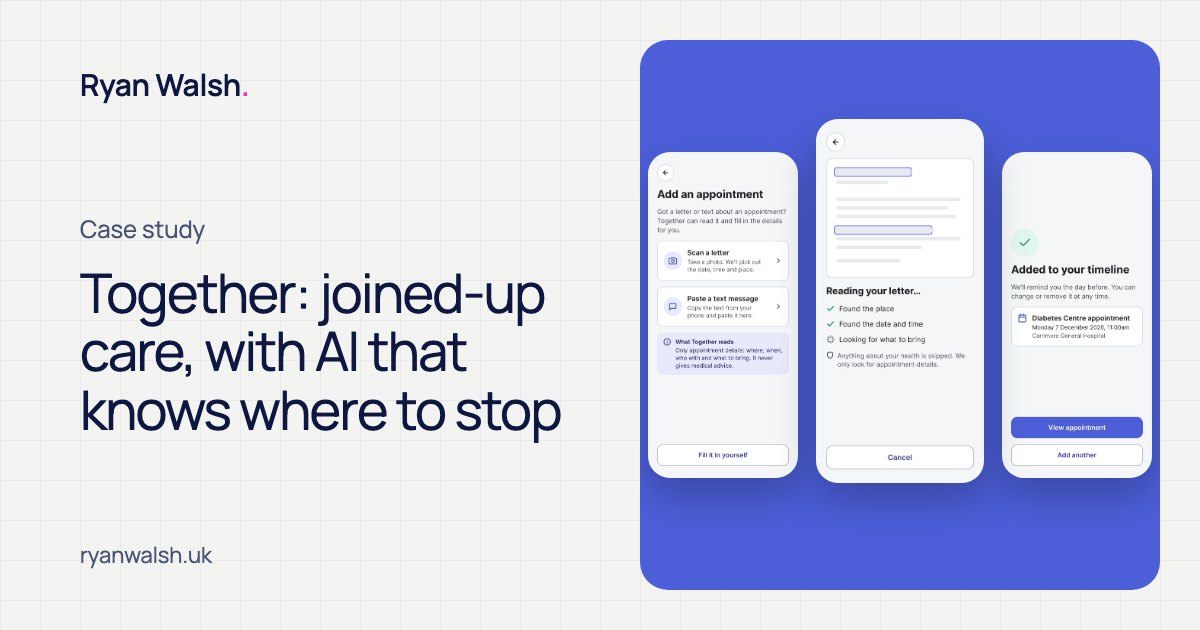
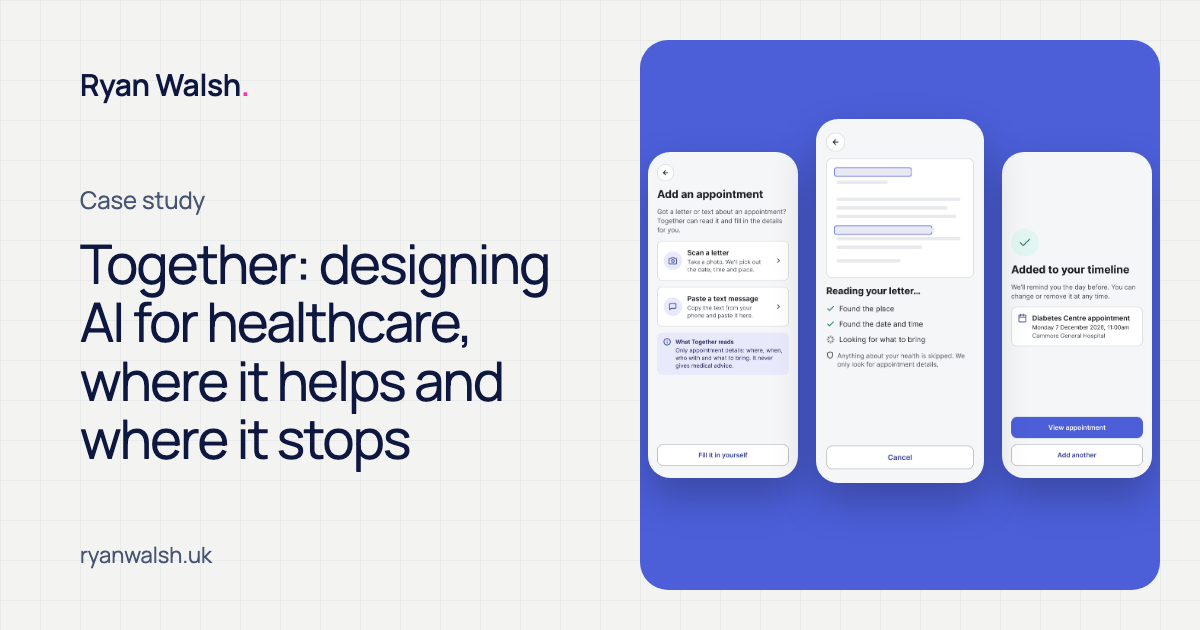
Together: lead with AI in the card line and page title (#96)
- Home card and TapSOS next-project line: Designing AI for healthcare: where it helps, and where it stops.
- Together title, og:title and h1 updated to match
- Share card regenerated with the new title (og:image ?v=2)

Changed region(s): [[0.0617, 0.3016, 0.4933, 0.754]]

diff --git a/index.html b/index.html
@@ -108,7 +108,7 @@
           <div class="media media--together media--zoom project__media">
             <span class="project__badge" aria-hidden="true">Together</span>
             <span class="ai-chip ai-chip--card" aria-hidden="true"><svg viewBox="0 0 24 24" aria-hidden="true" focusable="false"><path d="M11 3.5l1.8 5.2 5.2 1.8-5.2 1.8L11 17.5l-1.8-5.2L4 10.5l5.2-1.8z"/><path d="M18.5 14.5l.7 1.8 1.8.7-1.8.7-.7 1.8-.7-1.8-1.8-.7 1.8-.7z"/></svg>AI-assisted</span>
-            <div class="project__overlay" aria-hidden="true"><p class="project__overlay-title">Together</p><p class="project__overlay-desc">Joined-up care, with AI that knows where to stop.</p><span class="project__overlay-cta">View case study<svg class="project__arrow" viewBox="0 0 16 16" focusable="false"><path d="M2 8h11M9 4l4 4-4 4"/></svg></span></div>
+            <div class="project__overlay" aria-hidden="true"><p class="project__overlay-title">Together</p><p class="project__overlay-desc">Designing AI for healthcare: where it helps, and where it stops.</p><span class="project__overlay-cta">View case study<svg class="project__arrow" viewBox="0 0 16 16" focusable="false"><path d="M2 8h11M9 4l4 4-4 4"/></svg></span></div>
             <div class="media__img tg-card" aria-hidden="true">
               <div class="site-window__frame site-window__frame--light tg-card__win">
                 <p class="site-window__bar"><i></i><i></i><i></i><span>Together for practices</span></p>
@@ -117,7 +117,7 @@
               <img class="tg-card__phone" src="images/together/add.jpg" alt="" width="786" height="1704" loading="lazy">
             </div>
           </div>
-          <div class="project__caption" aria-hidden="true"><p class="project__caption-desc">Joined-up care, with AI that knows where to stop.</p><span class="project__cta">View case study<svg class="project__arrow" viewBox="0 0 16 16" aria-hidden="true" focusable="false"><path d="M2 8h11M9 4l4 4-4 4"/></svg></span></div>
+          <div class="project__caption" aria-hidden="true"><p class="project__caption-desc">Designing AI for healthcare: where it helps, and where it stops.</p><span class="project__cta">View case study<svg class="project__arrow" viewBox="0 0 16 16" aria-hidden="true" focusable="false"><path d="M2 8h11M9 4l4 4-4 4"/></svg></span></div>
           <div class="project__text visually-hidden">
             <h3 class="project__title">Together</h3>
             <p class="project__desc">In progress: a concept that joins up GP, hospital and pharmacy care, with an AI feature that reads appointment letters and a staff worklist ranked by admin need.</p>

diff --git a/together.html b/together.html
@@ -3,15 +3,15 @@
 <head>
   <meta charset="utf-8">
   <meta name="viewport" content="width=device-width, initial-scale=1, viewport-fit=cover">
-  <title>Together: joined-up care, with AI that knows where to stop, Ryan Walsh</title>
+  <title>Together: designing AI for healthcare, where it helps and where it stops, Ryan Walsh</title>
   <meta name="description" content="An in-progress case study by Ryan Walsh: a concept that joins up GP, hospital and pharmacy care, with an AI feature that reads appointment letters and a staff worklist ranked by admin need only.">
   <meta name="theme-color" content="#131313">
 
   <meta property="og:type" content="article">
-  <meta property="og:title" content="Together: joined-up care, with AI that knows where to stop">
+  <meta property="og:title" content="Together: designing AI for healthcare, where it helps and where it stops">
   <meta property="og:description" content="An in-progress case study by Ryan Walsh, product designer in Belfast.">
   <meta property="og:url" content="https://ryanwalsh.uk/together">
-  <meta property="og:image" content="https://ryanwalsh.uk/images/share/together.png?v=1">
+  <meta property="og:image" content="https://ryanwalsh.uk/images/share/together.png?v=2">
   <meta name="twitter:card" content="summary_large_image">
 
   <link rel="icon" href="favicon.svg?v=3" type="image/svg+xml">
@@ -161,7 +161,7 @@
       <div class="sp__wrap">
         <header>
           <p class="crumbs"><a href="index.html#work">Selected projects</a><span aria-hidden="true">/</span><span>Together</span></p>
-          <h1 class="sp__title">Together: joined-up care, with AI that knows where to stop</h1>
+          <h1 class="sp__title">Together: designing AI for healthcare, where it helps and where it stops</h1>
           <p class="sp__lead">A concept for people in Northern Ireland who manage ongoing care across their GP, hospital and pharmacy, and a service for the practices that look after them.</p>
           <p class="tg-chips">
             <span class="ai-chip ai-chip--human">In progress</span>

diff --git a/tapsos.html b/tapsos.html
@@ -794,7 +794,7 @@
       <section class="cs-next" aria-labelledby="next-title">
         <p class="cs-next__kicker">Next project</p>
         <h2 class="cs-next__title" id="next-title">Together</h2>
-        <p class="cs-next__status">Joined-up care, with AI that knows where to stop.</p>
+        <p class="cs-next__status">Designing AI for healthcare: where it helps, and where it stops.</p>
         <a class="button" href="together.html">View case study</a>
       </section>
 
